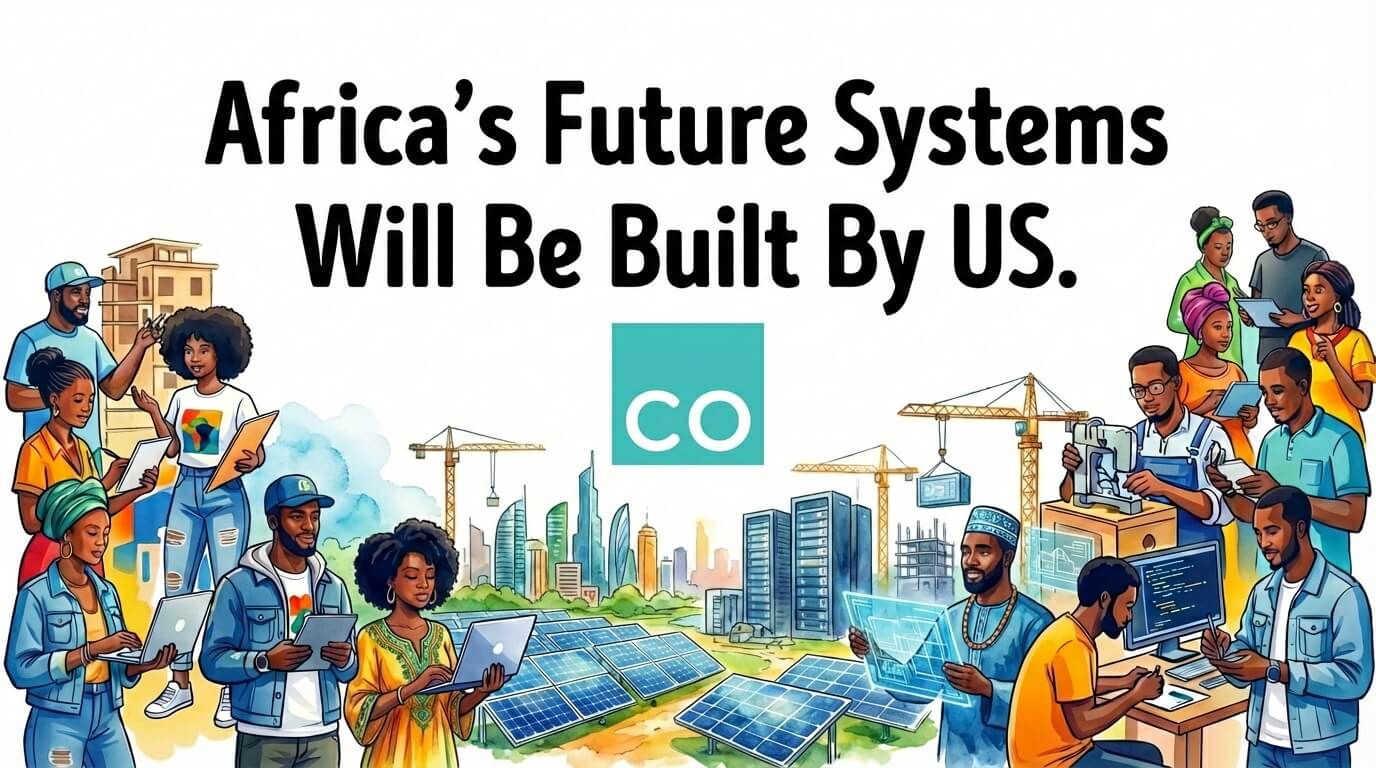
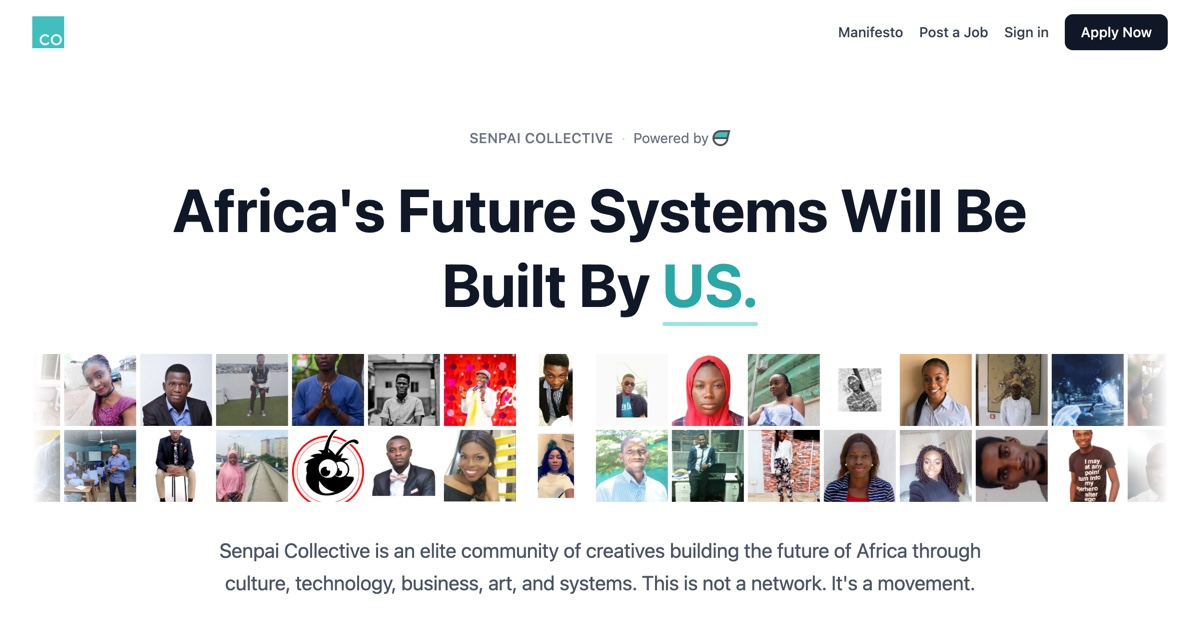
Refresh social meta image with landing-page screenshot
New 1200x630 OG image captured from the redesigned homepage hero
(headline + member photo wall); versioned the og:image/twitter:image
URLs to bust scraper caches.

diff --git a/index.html b/index.html
@@ -25,7 +25,7 @@
     <meta property="og:url" content="https://senpaicollective.com" />
     <meta property="og:title" content="Senpai Collective | Africa's Elite Creative Community" />
     <meta property="og:description" content="Join Africa's elite community of creatives building the future through culture, technology, business, art, and systems. This is not a network. It's a movement." />
-    <meta property="og:image" content="https://senpaicollective.com/coverseo.jpeg" />
+    <meta property="og:image" content="https://senpaicollective.com/coverseo.jpeg?v=2" />
     <meta property="og:image:width" content="1200" />
     <meta property="og:image:height" content="630" />
     <meta property="og:site_name" content="Senpai Collective" />
@@ -36,7 +36,7 @@
     <meta name="twitter:url" content="https://senpaicollective.com" />
     <meta name="twitter:title" content="Senpai Collective | Africa's Elite Creative Community" />
     <meta name="twitter:description" content="Join Africa's elite community of creatives building the future through culture, technology, business, art, and systems. This is not a network. It's a movement." />
-    <meta name="twitter:image" content="https://senpaicollective.com/coverseo.jpeg" />
+    <meta name="twitter:image" content="https://senpaicollective.com/coverseo.jpeg?v=2" />
     <meta name="twitter:site" content="@senpaicollective" />
     <meta name="twitter:creator" content="@senpaicollective" />
 
